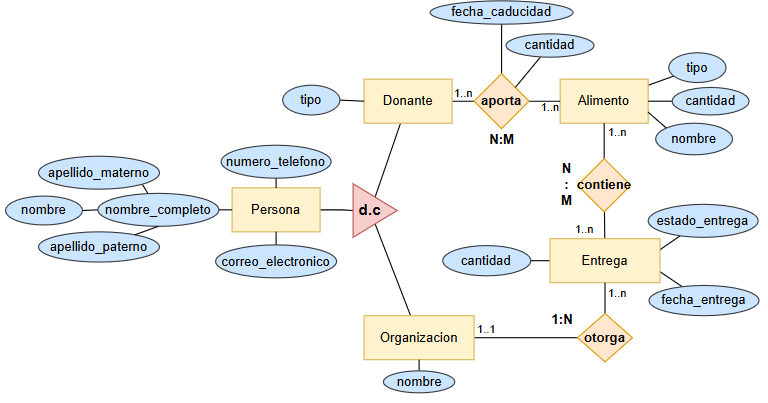
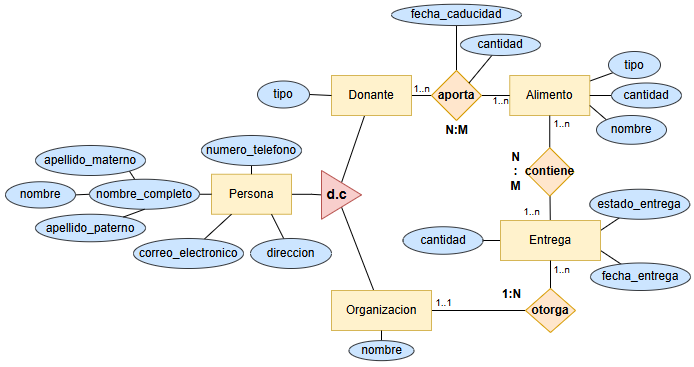
fix: agregacion de diagramas actualizados

Changed region(s): [[0.3631, 0.0, 0.9986, 0.9891], [0.0, 0.3597, 0.5447, 0.7493]]

diff --git a/README.md b/README.md
@@ -6,20 +6,12 @@
 Plataforma de Donación de Alimentos
 En la ciudad se desperdician diariamente toneladas de comida en supermercados, restaurantes y otros establecimientos, mientras que miles de familias viven en situación de inseguridad alimentaria. Ante esta problemática, un grupo de jóvenes propone el desarrollo de una plataforma digital de donación de alimentos que conecte a donadores con organizaciones comunitarias que los distribuyan a quienes más lo necesitan.
 
-<br>
-
 El sistema deberá contemplar los siguientes aspectos:
 Registro de donadores: cada donador podrá registrarse proporcionando información como nombre, tipo de donador (supermercado, restaurante, particular, etc.), dirección, teléfono y correo electrónico.
 
-<br>
-
 Registro de alimentos donados: cada vez que un donador realice una aportación, se deberá registrar el nombre del alimento, su categoría (por ejemplo: frutas, verduras, enlatados, panadería, etc.), la fecha de caducidad y la cantidad disponible, vinculándolo con el donador que lo proporciona.
 
-<br>
-
 Registro de organizaciones beneficiarias: las organizaciones comunitarias que recibirán los apoyos también deberán registrarse, indicando nombre, responsable, dirección, teléfono y correo electrónico.
-
-<br>
 
 Gestión de entregas: cada entrega deberá quedar registrada con información como la fecha de entrega, el alimento entregado, la organización beneficiada y el estado de la entrega (pendiente, en tránsito, completada, cancelada), lo que permitirá dar un seguimiento claro y transparente de los productos desde su donación hasta
 
@@ -31,6 +23,10 @@ Gestión de entregas: cada entrega deberá quedar registrada con información co
 ![MER_V2](./assets/MER_V2.png)
 
 <br>
+
+<b>Diagrama MR</b>
+
+![MR_V2](./assets/MR_V2.png)
 
 > **Nota**: leer hasta el final, estan los SP y las Vistas
 
@@ -131,135 +127,7 @@ CREATE TABLE contenidos (
 );
 ```
 
-### Modulos SP Utilizados
-
-```sql
-DELIMITER $
-
-DROP PROCEDURE IF EXISTS sp_registrar_aportacion$
-
-CREATE PROCEDURE sp_registrar_aportacion(
-    IN p_fecha_caducidad DATE,
-    IN p_cantidad DECIMAL(10,2),
-    IN p_id_donante INT,
-    IN p_id_alimento INT,
-    OUT p_id_aportacion INT
-)
-BEGIN
-    -- Handler para manejar errores SQL
-    DECLARE EXIT HANDLER FOR SQLEXCEPTION
-    BEGIN
-        ROLLBACK;
-        RESIGNAL;
-    END;
-    
-    START TRANSACTION;
-    
-    -- Verificar que el donante existe
-    IF NOT EXISTS (SELECT 1 FROM donantes WHERE id_persona = p_id_donante) THEN
-        SIGNAL SQLSTATE '45000' SET MESSAGE_TEXT = 'Donante no existe';
-    END IF;
-    
-    -- Verificar que el alimento existe
-    IF NOT EXISTS (SELECT 1 FROM alimentos WHERE id_alimento = p_id_alimento) THEN
-        SIGNAL SQLSTATE '45000' SET MESSAGE_TEXT = 'Alimento no existe';
-    END IF;
-    
-    -- Insertar la aportacion
-    INSERT INTO aportaciones (fecha_caducidad, cantidad, id_donante, id_alimento)
-    VALUES (p_fecha_caducidad, p_cantidad, p_id_donante, p_id_alimento);
-    
-    -- Obtener el ID generado
-    SET p_id_aportacion = LAST_INSERT_ID();
-    
-    COMMIT;
-    
-END$$
-
-DELIMITER ;
-
--- SP adicional para consultar aportaciones por donante
-DELIMITER $$
-
-DROP PROCEDURE IF EXISTS sp_consultar_aportaciones_donante$$
-
-CREATE PROCEDURE sp_consultar_aportaciones_donante(
-    IN p_id_donante INT
-)
-BEGIN
-    SELECT 
-        a.id_aportacion,
-        a.fecha_caducidad,
-        a.cantidad,
-        al.nombre AS nombre_alimento,
-        al.tipo_alimento,
-        CONCAT(p.nombre, ' ', p.apellido_paterno, ' ', IFNULL(p.apellido_materno, '')) AS donante
-    FROM aportaciones a
-    INNER JOIN alimentos al ON a.id_alimento = al.id_alimento
-    INNER JOIN donantes d ON a.id_donante = d.id_persona
-    INNER JOIN personas p ON d.id_persona = p.id_persona
-    WHERE a.id_donante = p_id_donante
-    ORDER BY a.fecha_caducidad ASC;
-END$$
-
-DELIMITER ;
-
--- SP para actualizar cantidad de alimento despues de aportacion
-DELIMITER $$
-
-DROP PROCEDURE IF EXISTS sp_actualizar_cantidad_alimento$$
-
-CREATE PROCEDURE sp_actualizar_cantidad_alimento(
-    IN p_id_alimento INT,
-    IN p_cantidad_adicional DECIMAL(10,2),
-    OUT p_mensaje VARCHAR(255)
-)
-BEGIN
-    DECLARE v_cantidad_actual DECIMAL(10,2) DEFAULT 0;
-    DECLARE v_alimento_existe INT DEFAULT 0;
-    
-    DECLARE EXIT HANDLER FOR SQLEXCEPTION
-    BEGIN
-        SET p_mensaje = 'Error al actualizar cantidad del alimento';
-        ROLLBACK;
-        RESIGNAL;
-    END;
-    
-    SET p_mensaje = '';
-    
-    START TRANSACTION;
-    
-    -- Verificar que el alimento existe y obtener cantidad actual
-    SELECT COUNT(*), IFNULL(MAX(cantidad), 0) 
-    INTO v_alimento_existe, v_cantidad_actual
-    FROM alimentos 
-    WHERE id_alimento = p_id_alimento;
-    
-    IF v_alimento_existe = 0 THEN
-        SET p_mensaje = 'El alimento especificado no existe';
-        ROLLBACK;
-    ELSE
-        -- Actualizar la cantidad
-        UPDATE alimentos 
-        SET cantidad = cantidad + p_cantidad_adicional
-        WHERE id_alimento = p_id_alimento;
-        
-        SET p_mensaje = 'Cantidad de alimento actualizada exitosamente';
-        COMMIT;
-    END IF;
-    
-END$$
-
-DELIMITER ;
-```
-
-### Modulos de Vistas
-
-```sql
-    -- poner vistas
-```
-
-> **Nota**: gracias por llegar aca aqui tienes un Script con Insersiones para agilizar la rebicion.
+> **Nota**: gracias por llegar aca aqui tienes un Script con Insersiones para agilizar la revision.
 
 ### Script Insert de Apoyo
 ```sql
